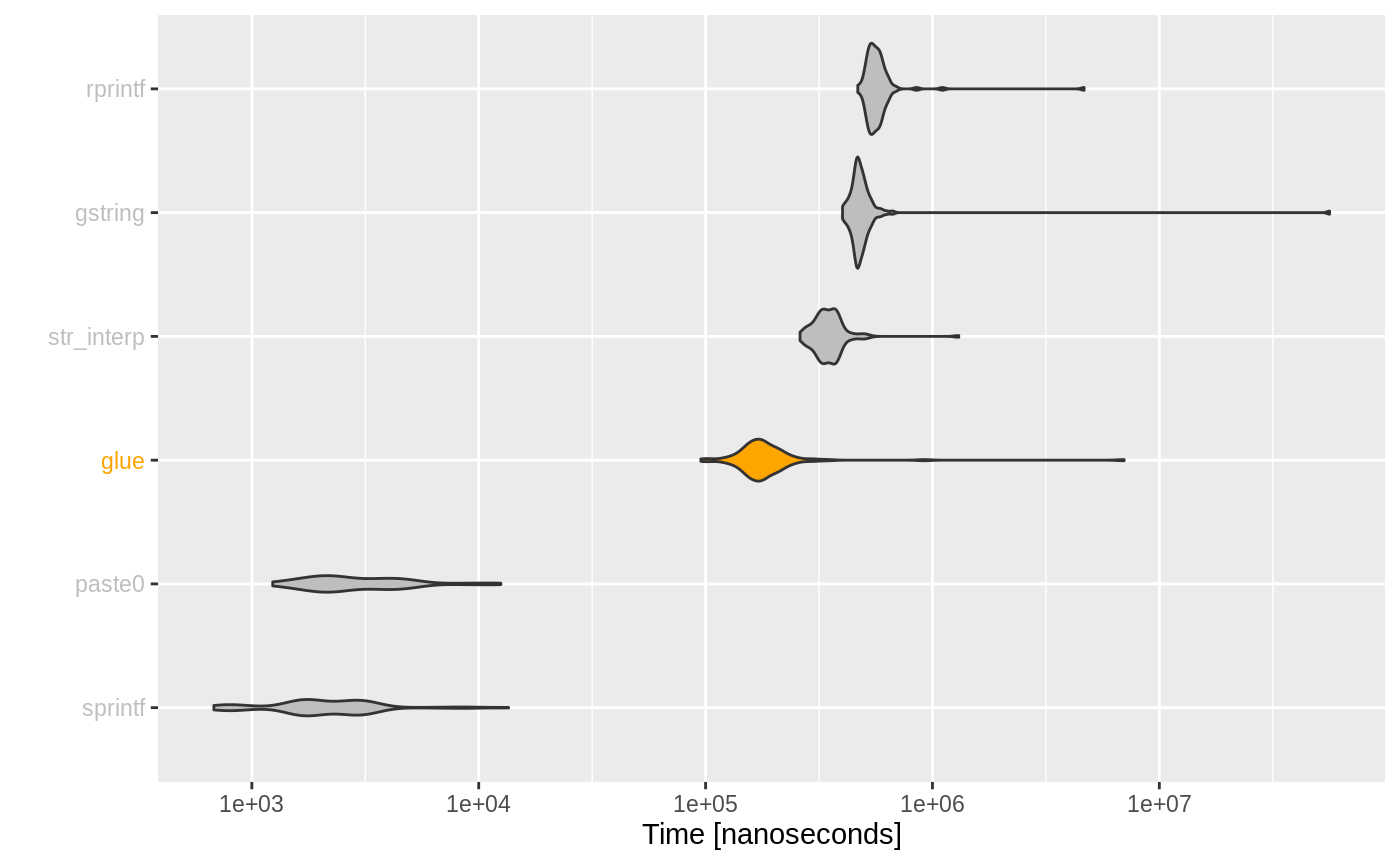
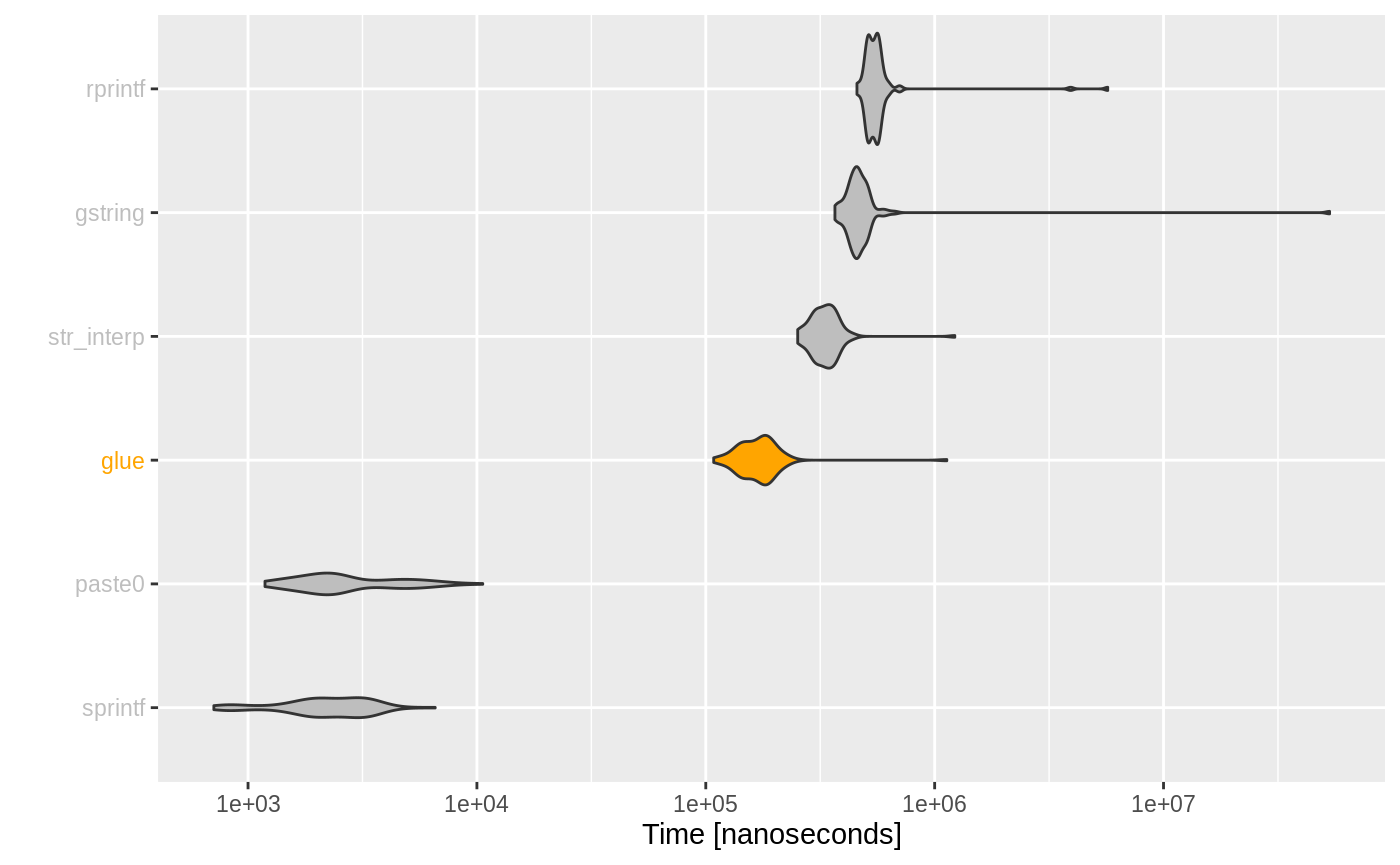
Built site for glue: 1.3.1.9000@c02d7d4

diff --git a/dev/articles/speed.html b/dev/articles/speed.html
@@ -143,7 +143,7 @@
 <a class="sourceLine" id="cb1-2" data-line-number="2"></a>
 <a class="sourceLine" id="cb1-3" data-line-number="3">simple &lt;-</a>
 <a class="sourceLine" id="cb1-4" data-line-number="4"><span class="st">  </span>microbenchmark<span class="op">::</span><span class="kw"><a href="https://rdrr.io/pkg/microbenchmark/man/microbenchmark.html">microbenchmark</a></span>(</a>
-<a class="sourceLine" id="cb1-5" data-line-number="5">  <span class="dt">glue =</span> glue<span class="op">::</span><span class="kw"><a href="https://rdrr.io/pkg/glue/man/glue.html">glue</a></span>(<span class="st">"foo{bar}"</span>),</a>
+<a class="sourceLine" id="cb1-5" data-line-number="5">  <span class="dt">glue =</span> glue<span class="op">::</span><span class="kw"><a href="https://glue.tidyverse.org/reference/glue.html">glue</a></span>(<span class="st">"foo{bar}"</span>),</a>
 <a class="sourceLine" id="cb1-6" data-line-number="6">  <span class="dt">gstring =</span> R.utils<span class="op">::</span><span class="kw">gstring</span>(<span class="st">"foo${bar}"</span>),</a>
 <a class="sourceLine" id="cb1-7" data-line-number="7">  <span class="dt">paste0 =</span> <span class="kw"><a href="https://rdrr.io/r/base/paste.html">paste0</a></span>(<span class="st">"foo"</span>, bar),</a>
 <a class="sourceLine" id="cb1-8" data-line-number="8">  <span class="dt">sprintf =</span> <span class="kw"><a href="https://rdrr.io/r/base/sprintf.html">sprintf</a></span>(<span class="st">"foo%s"</span>, bar),</a>
@@ -153,13 +153,13 @@
 <a class="sourceLine" id="cb1-12" data-line-number="12"></a>
 <a class="sourceLine" id="cb1-13" data-line-number="13"><span class="kw"><a href="https://rdrr.io/r/base/print.html">print</a></span>(<span class="dt">unit =</span> <span class="st">"eps"</span>, <span class="dt">order =</span> <span class="st">"median"</span>, <span class="dt">signif =</span> <span class="dv">4</span>, simple)</a>
 <a class="sourceLine" id="cb1-14" data-line-number="14"><span class="co">#&gt; Unit: evaluations per second</span></a>
-<a class="sourceLine" id="cb1-15" data-line-number="15"><span class="co">#&gt;        expr      min     lq   mean median     uq     max neval</span></a>
-<a class="sourceLine" id="cb1-16" data-line-number="16"><span class="co">#&gt;     rprintf   214.50   1693   1762   1794   1886    2133   100</span></a>
-<a class="sourceLine" id="cb1-17" data-line-number="17"><span class="co">#&gt;     gstring    17.76   1992   2070   2111   2182    2491   100</span></a>
-<a class="sourceLine" id="cb1-18" data-line-number="18"><span class="co">#&gt;  str_interp   765.60   2653   2899   2900   3155    3834   100</span></a>
-<a class="sourceLine" id="cb1-19" data-line-number="19"><span class="co">#&gt;        glue   142.90   4939   5733   5697   6430   10490   100</span></a>
-<a class="sourceLine" id="cb1-20" data-line-number="20"><span class="co">#&gt;      paste0 79920.00 250300 392700 400900 505700  809100   100</span></a>
-<a class="sourceLine" id="cb1-21" data-line-number="21"><span class="co">#&gt;     sprintf 73880.00 338400 574400 514500 638200 1471000   100</span></a>
+<a class="sourceLine" id="cb1-15" data-line-number="15"><span class="co">#&gt;        expr       min     lq   mean median     uq     max neval</span></a>
+<a class="sourceLine" id="cb1-16" data-line-number="16"><span class="co">#&gt;     rprintf    175.30   1753   1815   1833   1951    2185   100</span></a>
+<a class="sourceLine" id="cb1-17" data-line-number="17"><span class="co">#&gt;     gstring     18.81   2018   2161   2175   2313    2727   100</span></a>
+<a class="sourceLine" id="cb1-18" data-line-number="18"><span class="co">#&gt;  str_interp    816.50   2753   3048   2990   3342    3966   100</span></a>
+<a class="sourceLine" id="cb1-19" data-line-number="19"><span class="co">#&gt;        glue    884.80   5244   6049   5806   6864    9235   100</span></a>
+<a class="sourceLine" id="cb1-20" data-line-number="20"><span class="co">#&gt;      paste0  94300.00 240400 418100 421200 533300  843200   100</span></a>
+<a class="sourceLine" id="cb1-21" data-line-number="21"><span class="co">#&gt;     sprintf 152100.00 323900 527100 456000 592800 1410000   100</span></a>
 <a class="sourceLine" id="cb1-22" data-line-number="22"></a>
 <a class="sourceLine" id="cb1-23" data-line-number="23"><span class="kw">plot_comparison</span>(simple)</a></code></pre></div>
 <p><img src="speed_files/figure-html/unnamed-chunk-1-1.png" width="700"></p>
@@ -177,7 +177,7 @@
 <a class="sourceLine" id="cb2-2" data-line-number="2"></a>
 <a class="sourceLine" id="cb2-3" data-line-number="3">vectorized &lt;-</a>
 <a class="sourceLine" id="cb2-4" data-line-number="4"><span class="st">  </span>microbenchmark<span class="op">::</span><span class="kw"><a href="https://rdrr.io/pkg/microbenchmark/man/microbenchmark.html">microbenchmark</a></span>(</a>
-<a class="sourceLine" id="cb2-5" data-line-number="5">  <span class="dt">glue =</span> glue<span class="op">::</span><span class="kw"><a href="https://rdrr.io/pkg/glue/man/glue.html">glue</a></span>(<span class="st">"foo{bar}"</span>),</a>
+<a class="sourceLine" id="cb2-5" data-line-number="5">  <span class="dt">glue =</span> glue<span class="op">::</span><span class="kw"><a href="https://glue.tidyverse.org/reference/glue.html">glue</a></span>(<span class="st">"foo{bar}"</span>),</a>
 <a class="sourceLine" id="cb2-6" data-line-number="6">  <span class="dt">gstring =</span> R.utils<span class="op">::</span><span class="kw">gstring</span>(<span class="st">"foo${bar}"</span>),</a>
 <a class="sourceLine" id="cb2-7" data-line-number="7">  <span class="dt">paste0 =</span> <span class="kw"><a href="https://rdrr.io/r/base/paste.html">paste0</a></span>(<span class="st">"foo"</span>, bar),</a>
 <a class="sourceLine" id="cb2-8" data-line-number="8">  <span class="dt">sprintf =</span> <span class="kw"><a href="https://rdrr.io/r/base/sprintf.html">sprintf</a></span>(<span class="st">"foo%s"</span>, bar),</a>
@@ -187,11 +187,11 @@
 <a class="sourceLine" id="cb2-12" data-line-number="12"><span class="kw"><a href="https://rdrr.io/r/base/print.html">print</a></span>(<span class="dt">unit =</span> <span class="st">"ms"</span>, <span class="dt">order =</span> <span class="st">"median"</span>, <span class="dt">signif =</span> <span class="dv">4</span>, vectorized)</a>
 <a class="sourceLine" id="cb2-13" data-line-number="13"><span class="co">#&gt; Unit: milliseconds</span></a>
 <a class="sourceLine" id="cb2-14" data-line-number="14"><span class="co">#&gt;     expr   min    lq  mean median    uq   max neval</span></a>
-<a class="sourceLine" id="cb2-15" data-line-number="15"><span class="co">#&gt;  sprintf 14.57 14.68 14.93  14.78 15.13 16.14   100</span></a>
-<a class="sourceLine" id="cb2-16" data-line-number="16"><span class="co">#&gt;   paste0 16.37 16.51 16.90  16.60 17.01 22.91   100</span></a>
-<a class="sourceLine" id="cb2-17" data-line-number="17"><span class="co">#&gt;     glue 20.49 20.84 21.30  21.04 21.34 26.25   100</span></a>
-<a class="sourceLine" id="cb2-18" data-line-number="18"><span class="co">#&gt;  gstring 34.36 34.79 35.24  34.98 35.32 39.83   100</span></a>
-<a class="sourceLine" id="cb2-19" data-line-number="19"><span class="co">#&gt;  rprintf 55.78 56.52 57.76  56.93 57.65 66.93   100</span></a>
+<a class="sourceLine" id="cb2-15" data-line-number="15"><span class="co">#&gt;  sprintf 14.44 14.56 14.81  14.68 14.98 18.39   100</span></a>
+<a class="sourceLine" id="cb2-16" data-line-number="16"><span class="co">#&gt;   paste0 16.33 16.45 16.64  16.53 16.70 20.92   100</span></a>
+<a class="sourceLine" id="cb2-17" data-line-number="17"><span class="co">#&gt;     glue 20.58 20.98 21.67  21.13 21.61 26.32   100</span></a>
+<a class="sourceLine" id="cb2-18" data-line-number="18"><span class="co">#&gt;  gstring 34.61 34.84 35.39  35.15 35.47 41.41   100</span></a>
+<a class="sourceLine" id="cb2-19" data-line-number="19"><span class="co">#&gt;  rprintf 55.64 56.21 56.92  56.53 57.00 61.36   100</span></a>
 <a class="sourceLine" id="cb2-20" data-line-number="20"></a>
 <a class="sourceLine" id="cb2-21" data-line-number="21"><span class="kw">plot_comparison</span>(vectorized, <span class="dt">log =</span> <span class="ot">FALSE</span>)</a></code></pre></div>
 <p><img src="speed_files/figure-html/unnamed-chunk-2-1.png" width="700"></p>
